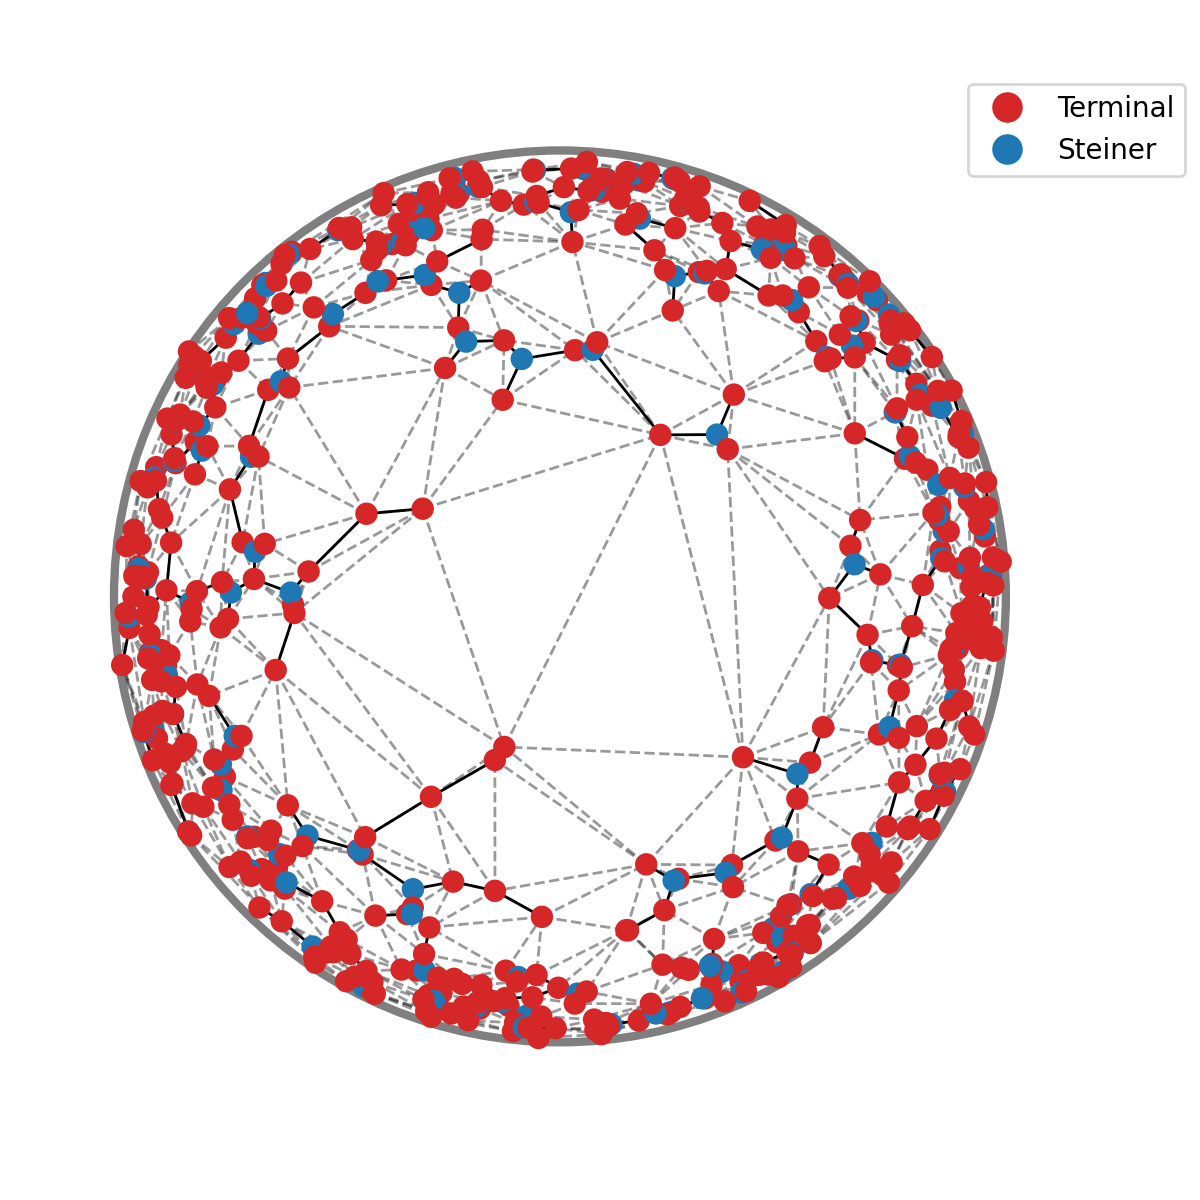
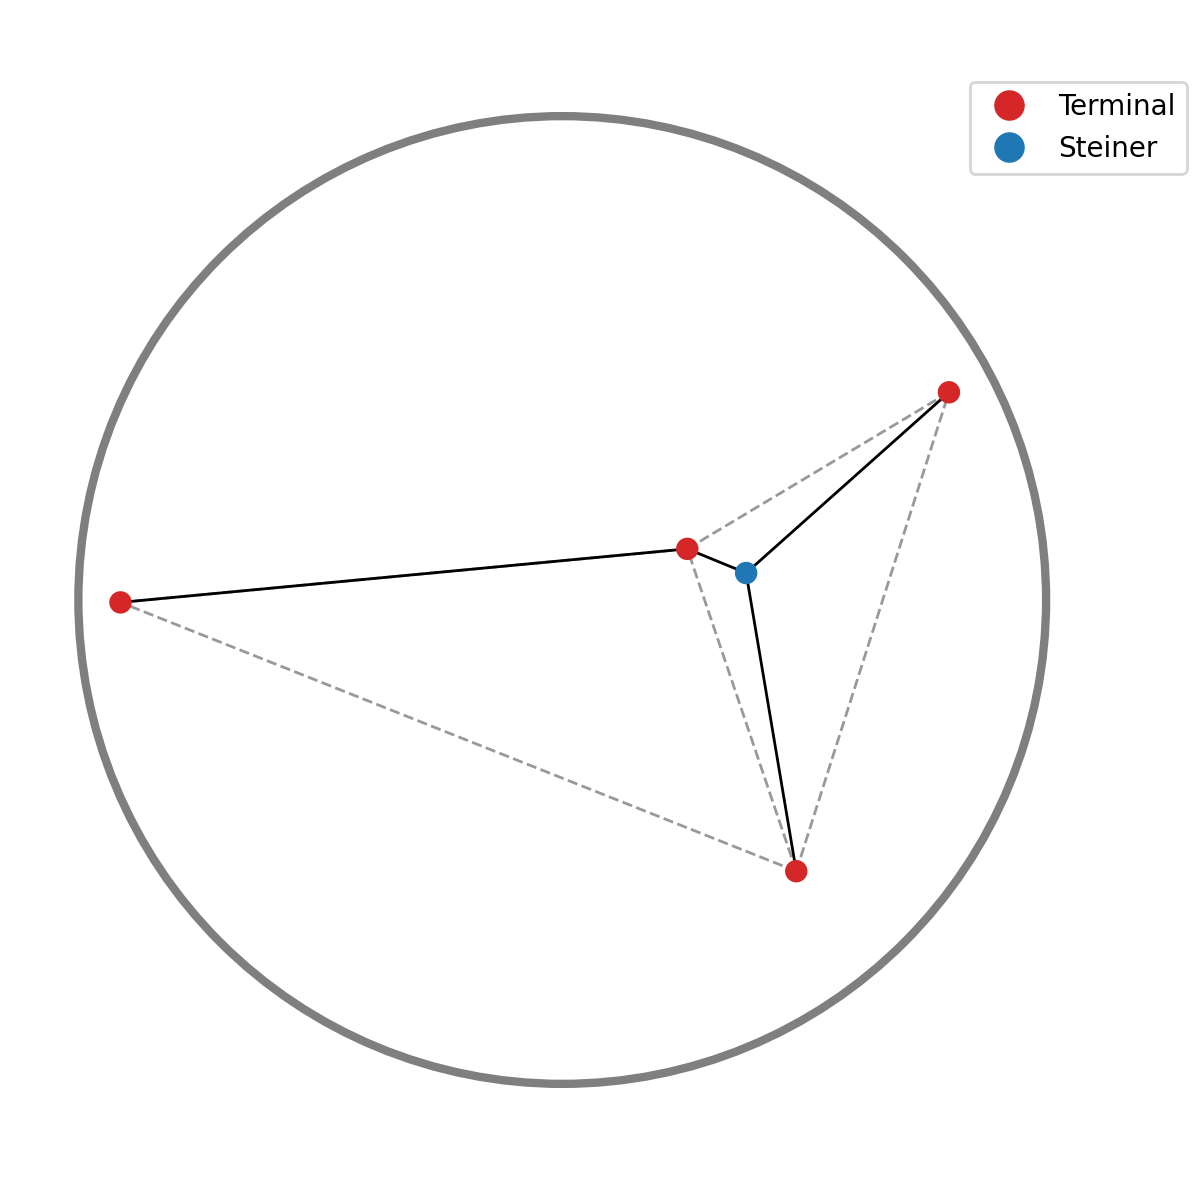
clean and add requirements

diff --git a/README.md b/README.md
@@ -8,3 +8,21 @@ We propose HyperSteiner — an efficient heuristic algorithm for computing Stein
 - The code for the method is in `src/utils`. <br />
 - The synthetic and real experiments can be reproduced using respectively the notebooks `syntheticExperiments.ipynb` and `realExperiments.ipynb`. <br />
 - The folder `Data` contains the hyperbolic representation of the Planaria dataset in the Klein-Beltrami disk and the corresponding groundtruth cell age. This is used for the real-life experiments.
+
+
+
+# Setup
+
+
+To install the requirements, we use conda. We recommend creating a new environment for the project.
+```
+conda create --name "hyper" python=3.8
+conda activate hyper
+```
+
+Install the relevant dependencies.
+```
+./setup_phcp.sh 
+pip install -r requirements.txt
+conda install biotite==0.35.0
+```
